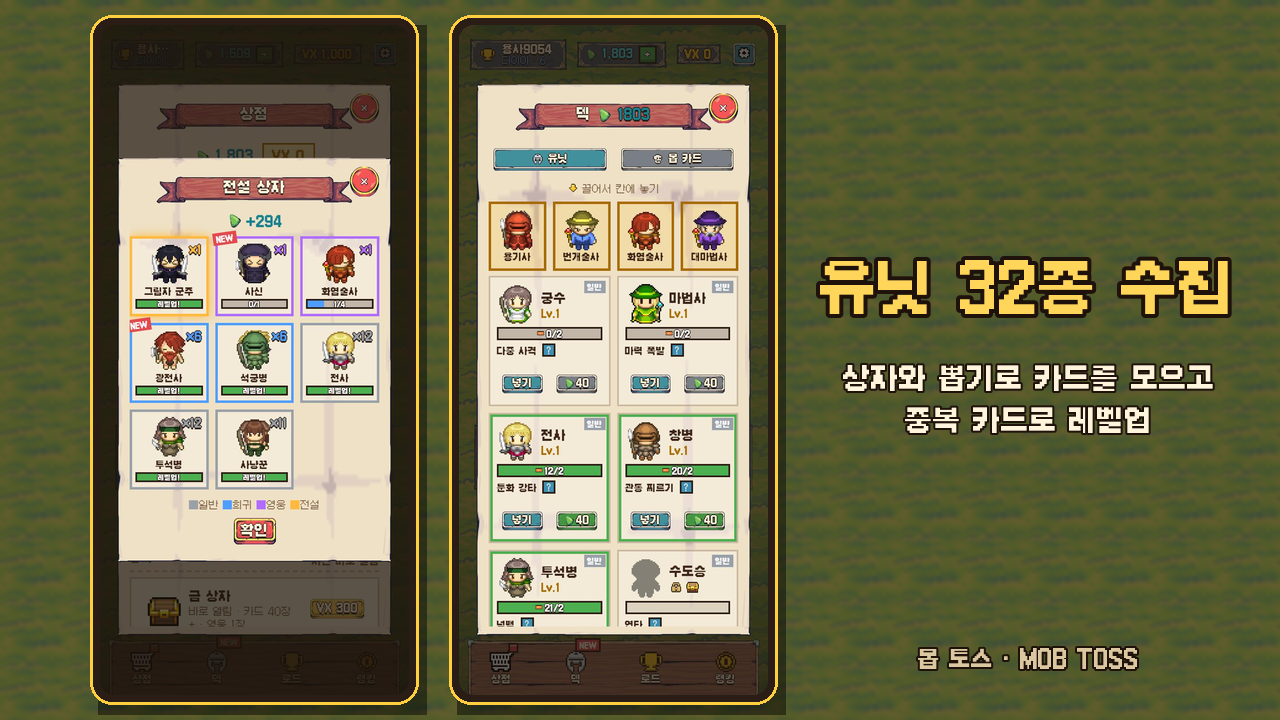
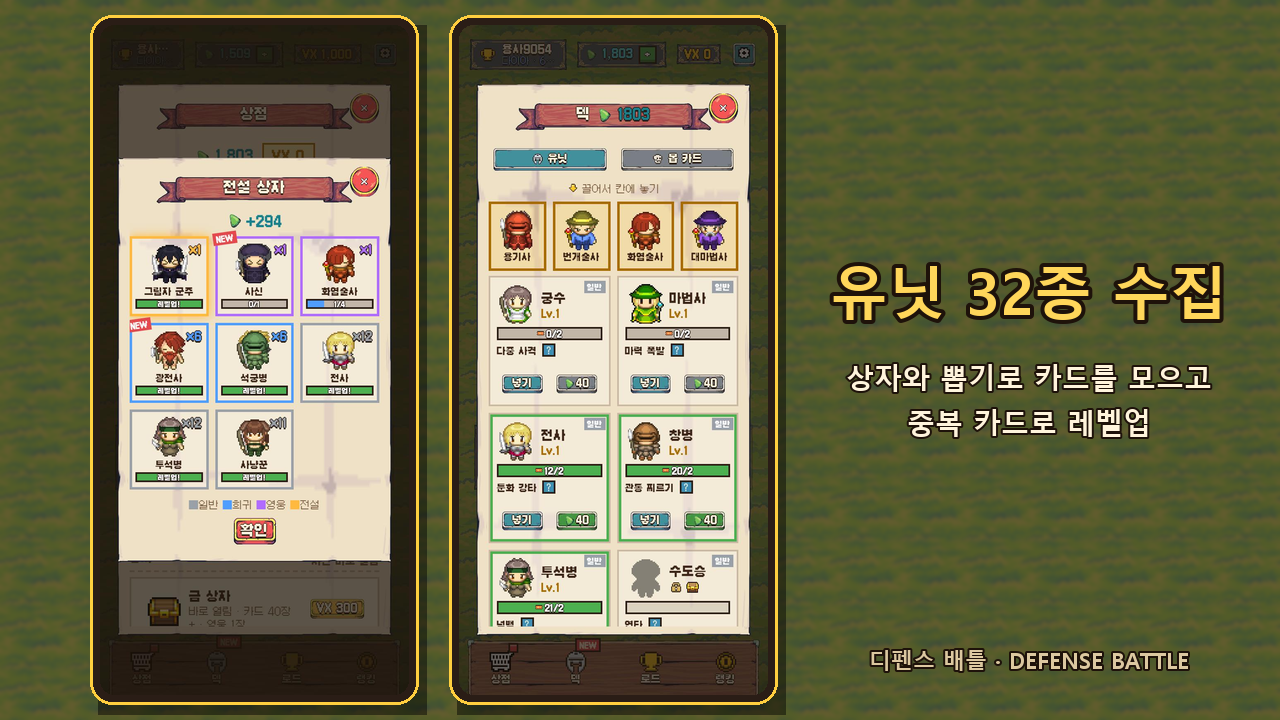
Rename game to Defense Battle (디펜스 배틀)
Title, lobby, README, server header, store thumbnail, graphic and screenshot
footer. store_logo.py fits the longer English name to the frame width.

Changed region(s): [[0.625, 0.3361, 0.9688, 0.4583], [0.6562, 0.4889, 0.9688, 0.6111], [0.6562, 0.8861, 0.9375, 0.9472]]

diff --git a/game/src/menu.ts b/game/src/menu.ts
@@ -125,7 +125,7 @@ export class Menu {
         <button class="gear-btn" data-act="settings" aria-label="설정">${icon('settings')}</button>
       </div>
       <div class="lobby-body v1">
-        <h1 class="game-title">몹 토스</h1>
+        <h1 class="game-title">디펜스 배틀</h1>
         <div class="parade">${parade}</div>
         ${canClaimMonthly() ? `<div class="notice">${icon('calendar')} 월정액 오늘의 보석 <button class="btn small green" data-act="monthly">받기 ${icon('gem')}</button></div>` : ''}
         ${pvpOn ? `<div class="play-card arena-card">

diff --git a/game/src/main.ts b/game/src/main.ts
@@ -351,7 +351,7 @@ setInterval(() => {
 // ---------------------------------------------------------------
 async function boot(): Promise<void> {
   $('main-menu').classList.remove('hidden');
-  $('main-menu').innerHTML = '<div style="margin:auto;text-align:center"><div class="game-title">몹 토스</div><div class="spinner"></div></div>';
+  $('main-menu').innerHTML = '<div style="margin:auto;text-align:center"><div class="game-title">디펜스 배틀</div><div class="spinner"></div></div>';
   try {
     await getPlatform().init();
     reloadMeta();

diff --git a/game/src/config.ts b/game/src/config.ts
@@ -1,5 +1,5 @@
 // ============================================================
-//  몹 토스 (Mob Toss) - 게임 데이터/밸런스 테이블
+//  디펜스 배틀 (Defense Battle) - 게임 데이터/밸런스 테이블
 //  (게임 기획서 기준. 숫자 하나만 바꿔도 밸런스가 조정되도록 이곳에 집중)
 // ============================================================
 import type { IconName } from './icons';

diff --git a/game/index.html b/game/index.html
@@ -6,7 +6,7 @@
       name="viewport"
       content="width=device-width, initial-scale=1.0, maximum-scale=1.0, user-scalable=no, viewport-fit=cover"
     />
-    <title>몹 토스 - Mob Toss</title>
+    <title>디펜스 배틀 - Defense Battle</title>
   </head>
   <body>
     <div id="app">

diff --git a/server/src/server.ts b/server/src/server.ts
@@ -1,5 +1,5 @@
 /**
- * Mob Toss (몹 토스) - Verse8(Agent8) GameServer
+ * Defense Battle (디펜스 배틀) - Verse8(Agent8) GameServer
  *
  * 기능
  *  - 클라우드 저장: loadProfile / saveProfile  (계정별 메타 진행도)

diff --git a/tools/store_logo.py b/tools/store_logo.py
@@ -17,6 +17,7 @@ ROOT = Path(__file__).resolve().parent.parent
 STORE = ROOT / 'launch/store'
 FONT = sys.argv[1]
 INK = (52, 28, 14, 255)
+NAME_EN, NAME_KR = 'DEFENSE BATTLE', '디펜스 배틀'
 
 
 def pixel_word(text: str, px: int, scale: int, top=(255, 236, 120), mid=(255, 196, 40), low=(232, 120, 24)) -> Image.Image:
@@ -50,6 +51,13 @@ def pixel_word(text: str, px: int, scale: int, top=(255, 236, 120), mid=(255, 19
     return img.resize((w * scale, h * scale), Image.NEAREST)
 
 
+def fit_word(text: str, max_w: int, scale: int) -> Image.Image:
+    """가장 큰 정수 배율로 (max_w 안에 들어가게)"""
+    while scale > 1 and pixel_word(text, 22, scale).width > max_w:
+        scale -= 1
+    return pixel_word(text, 22, scale)
+
+
 def nine(src: str, w: int, h: int, edge: int) -> Image.Image:
     """9-slice 프레임 늘리기"""
     im = Image.open(ROOT / f'game/public/ui/frame/{src}.png').convert('RGBA')
@@ -67,8 +75,8 @@ def nine(src: str, w: int, h: int, edge: int) -> Image.Image:
 def variant(base: Image.Image, kind: str) -> Image.Image:
     img = base.convert('RGBA').copy()
     W, H = img.size
-    word = pixel_word('MOB TOSS', 22, 6)
-    kr = pixel_word('몹 토스', 22, 3, top=(255, 255, 255), mid=(255, 248, 230), low=(225, 208, 182))
+    word = fit_word(NAME_EN, W - 90, 6)
+    kr = pixel_word(NAME_KR, 22, 3, top=(255, 255, 255), mid=(255, 248, 230), low=(225, 208, 182))
     bottom = H - kr.height - 30  # 한글 이름은 아래 (위쪽은 날아가는 고블린 자리)
     if kind == 'A':
         img.alpha_composite(word, ((W - word.width) // 2, 40))
@@ -108,9 +116,9 @@ if __name__ == '__main__':
         g = Image.open(STORE / 'graphic_raw.png').convert('RGB')
         h = round(g.width * 578 / 1024)
         g = g.crop((0, 20, g.width, 20 + h)).resize((1024, 578), Image.LANCZOS).convert('RGBA')
-        word = pixel_word('MOB TOSS', 22, 4)
+        word = fit_word(NAME_EN, 1024 - 120, 4)
         g.alpha_composite(word, ((1024 - word.width) // 2, 18))
-        kr = pixel_word('몹 토스', 22, 2, top=(255, 255, 255), mid=(255, 248, 230), low=(225, 208, 182))
+        kr = pixel_word(NAME_KR, 22, 2, top=(255, 255, 255), mid=(255, 248, 230), low=(225, 208, 182))
         by = 578 - kr.height - 22
         plate = Image.new('RGBA', (kr.width + 40, kr.height + 18), (0, 0, 0, 0))
         ImageDraw.Draw(plate).rectangle((0, 0, plate.width - 1, plate.height - 1), fill=(42, 26, 16, 235), outline=(255, 196, 40, 255), width=4)

diff --git a/tools/store_screens.py b/tools/store_screens.py
@@ -87,6 +87,6 @@ if __name__ == '__main__':
         d = ImageDraw.Draw(img)
         text(d, (cx, H // 2 - 70), title, 58, (255, 214, 90))
         text(d, (cx, H // 2 + 40), sub, 28, (255, 244, 220))
-        text(d, (cx, H - 60), '몹 토스 · MOB TOSS', 22, (220, 200, 160))
+        text(d, (cx, H - 60), '디펜스 배틀 · DEFENSE BATTLE', 22, (220, 200, 160))
         p = save(img.convert('RGB'), n)
         print(p.name, p.stat().st_size)

diff --git a/README.md b/README.md
@@ -1,4 +1,4 @@
-# 몹 토스 (Mob Toss)
+# 디펜스 배틀 (Defense Battle)
 
 몹을 상대 전장에 던지고, 내 전장은 소환·합성한 유닛으로 막는 1:1 디펜스 대전. (저장소 이름은 예전 이름 RandomDefense 그대로)
 
